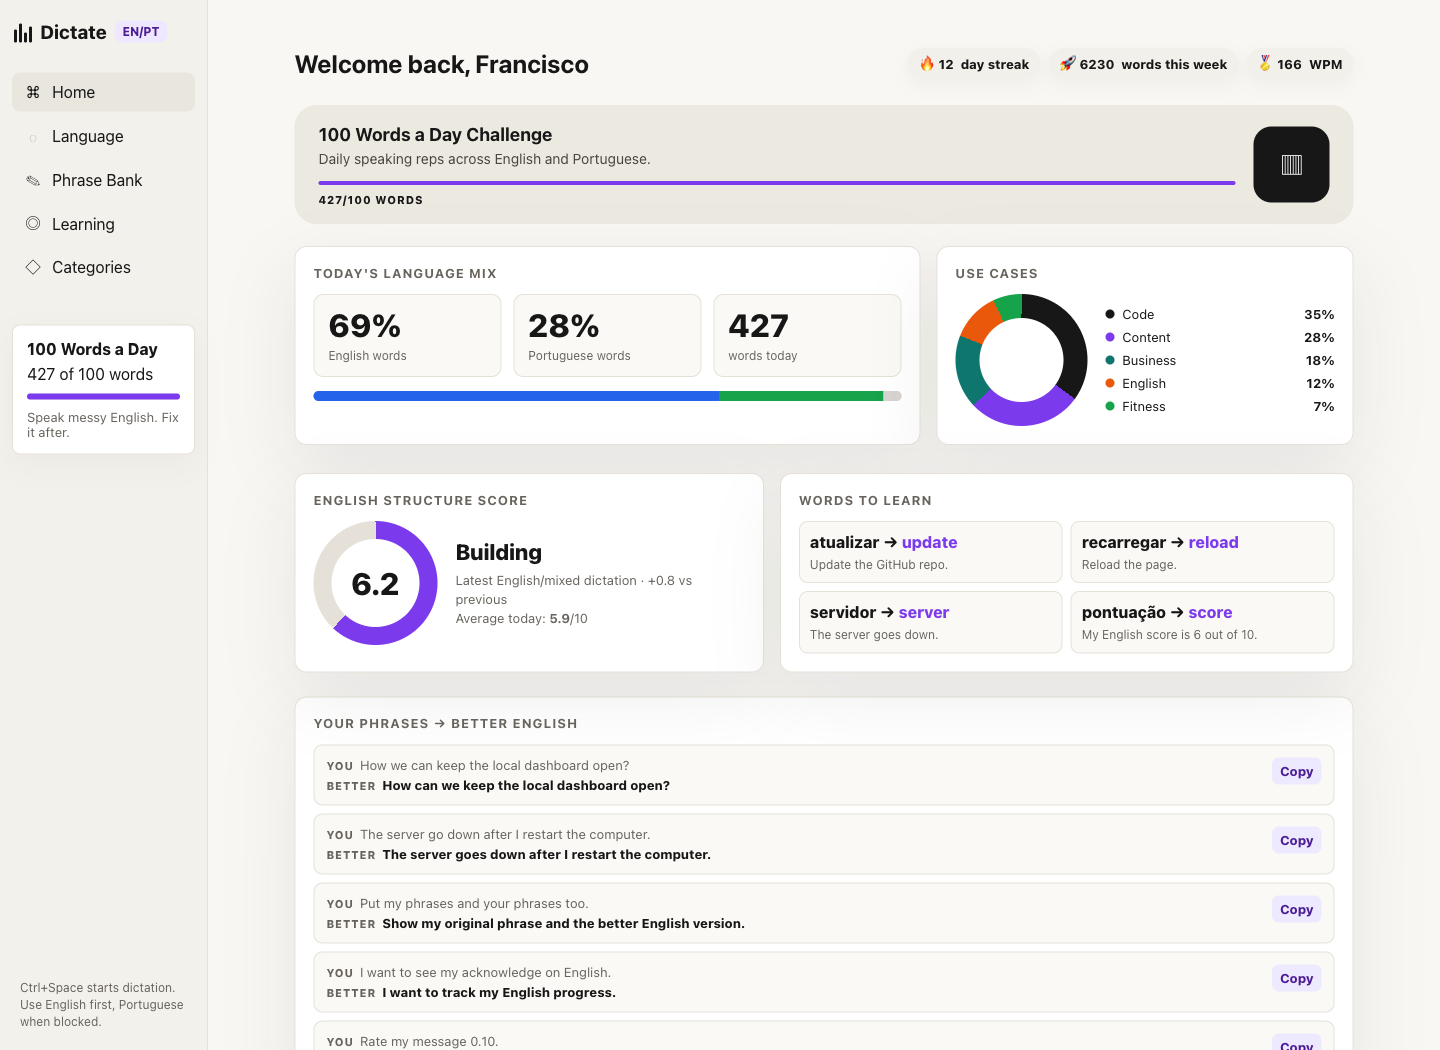
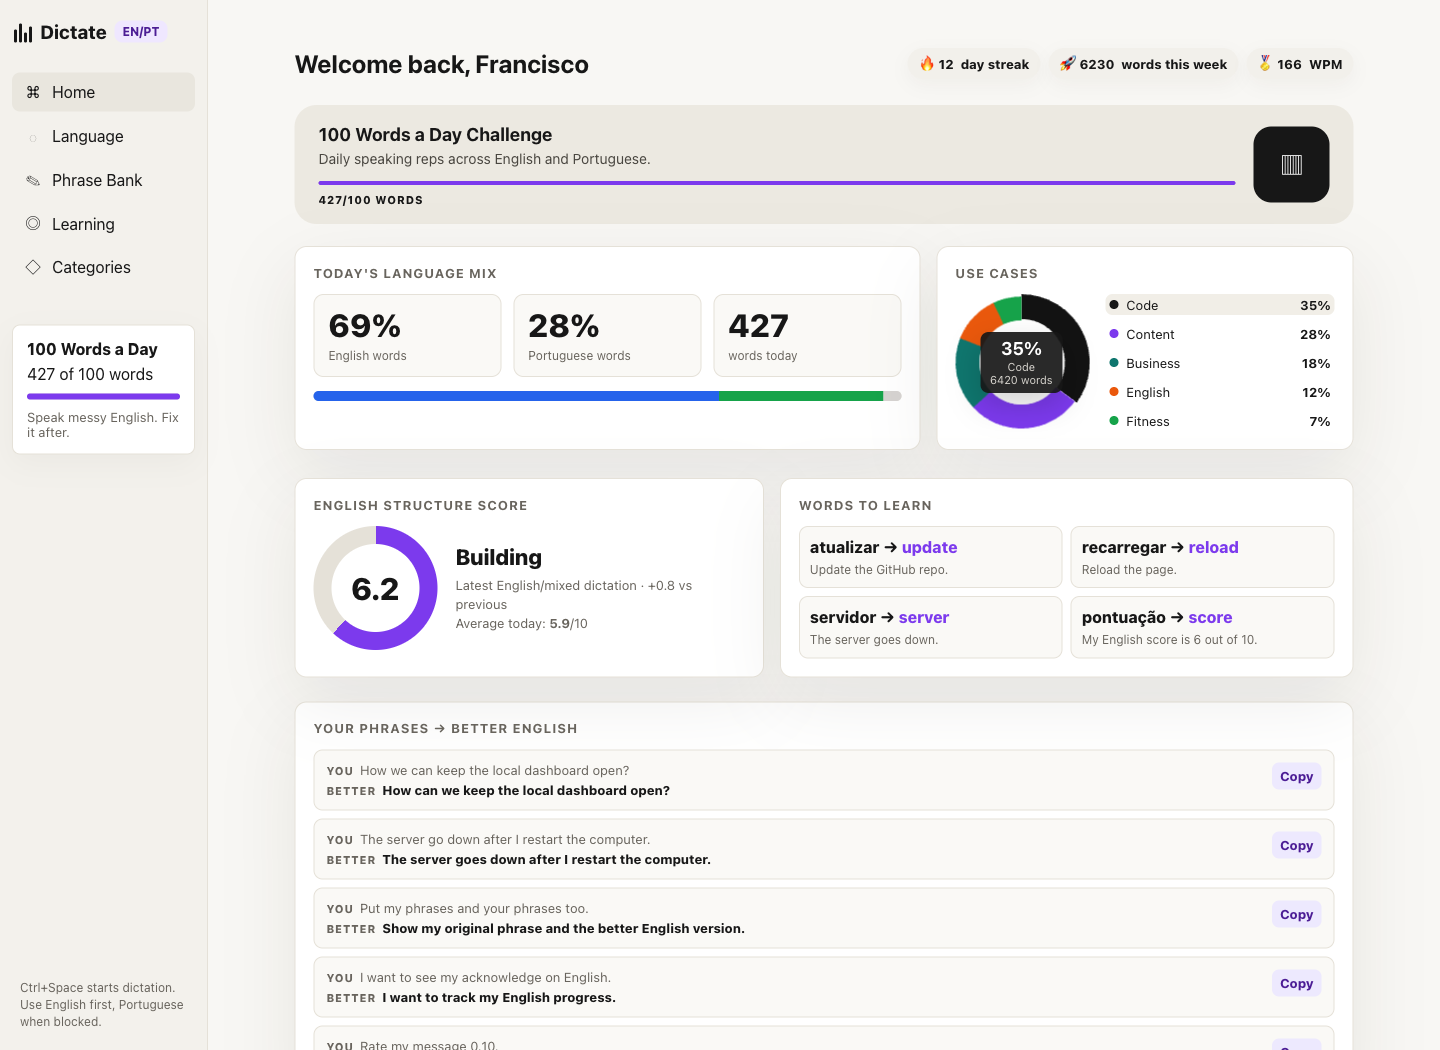
Add interactive use case donut hover

diff --git a/dashboard.py b/dashboard.py
@@ -985,19 +985,44 @@ h1 { margin: 0; font-size: 25px; line-height: 1.1; }
 .donut {
   width: 132px;
   height: 132px;
-  border-radius: 50%;
-  background: conic-gradient(#737373 0deg 360deg);
   position: relative;
 }
-.donut:after {
-  content: "";
-  position: absolute;
-  inset: 24px;
-  border-radius: 50%;
-  background: var(--surface);
+.donut-svg { width: 132px; height: 132px; overflow: visible; display: block; }
+.donut-segment {
+  cursor: pointer;
+  transition: filter .14s ease, transform .14s ease, opacity .14s ease;
+  transform-origin: 66px 66px;
 }
+.donut-segment:hover,
+.donut-segment:focus,
+.donut-segment.active {
+  filter: brightness(.78) saturate(1.12);
+  transform: scale(1.035);
+  outline: none;
+}
+.donut-hole { fill: var(--surface); pointer-events: none; }
+.donut-tip {
+  position: absolute;
+  left: 50%;
+  top: 50%;
+  transform: translate(-50%, -50%);
+  min-width: 82px;
+  padding: 7px 8px;
+  border-radius: 8px;
+  background: rgba(23,23,23,.92);
+  color: #fff;
+  text-align: center;
+  box-shadow: 0 12px 30px rgba(0,0,0,.18);
+  opacity: 0;
+  pointer-events: none;
+  transition: opacity .12s ease;
+}
+.donut-tip.show { opacity: 1; }
+.donut-tip b { display: block; font-size: 18px; line-height: 1; margin-bottom: 3px; }
+.donut-tip span { display: block; font-size: 11px; color: #d7d4ce; white-space: nowrap; }
 .legend { display: grid; gap: 8px; }
-.legend-row { display: flex; align-items: center; justify-content: space-between; gap: 10px; font-size: 13px; }
+.legend-row { display: flex; align-items: center; justify-content: space-between; gap: 10px; font-size: 13px; border-radius: 7px; padding: 3px 4px; transition: background .14s ease; }
+.legend-row.active { background: #f1eee7; }
 .legend-left { display: flex; align-items: center; gap: 8px; min-width: 0; }
 .dot { width: 9px; height: 9px; border-radius: 50%; flex: 0 0 auto; }
 .score-wrap { display: grid; grid-template-columns: 124px 1fr; gap: 18px; align-items: center; }
@@ -1457,29 +1482,114 @@ function languageLabel(meta) {
   if (meta.language === 'mixed') return 'Mixed EN/PT';
   return 'Unknown';
 }
+function polarToCartesian(cx, cy, r, angleDeg) {
+  const angleRad = (angleDeg - 90) * Math.PI / 180;
+  return {
+    x: cx + (r * Math.cos(angleRad)),
+    y: cy + (r * Math.sin(angleRad))
+  };
+}
+function donutPath(cx, cy, outerR, innerR, startAngle, endAngle) {
+  const outerStart = polarToCartesian(cx, cy, outerR, endAngle);
+  const outerEnd = polarToCartesian(cx, cy, outerR, startAngle);
+  const innerStart = polarToCartesian(cx, cy, innerR, startAngle);
+  const innerEnd = polarToCartesian(cx, cy, innerR, endAngle);
+  const largeArc = endAngle - startAngle <= 180 ? 0 : 1;
+  return [
+    'M', outerStart.x, outerStart.y,
+    'A', outerR, outerR, 0, largeArc, 0, outerEnd.x, outerEnd.y,
+    'L', innerStart.x, innerStart.y,
+    'A', innerR, innerR, 0, largeArc, 1, innerEnd.x, innerEnd.y,
+    'Z'
+  ].join(' ');
+}
+function setDonutHover(key, item) {
+  const tip = document.getElementById('donut-tip');
+  document.querySelectorAll('.legend-row').forEach(row => {
+    row.classList.toggle('active', row.dataset.key === key);
+  });
+  document.querySelectorAll('.donut-segment').forEach(seg => {
+    seg.classList.toggle('active', seg.dataset.key === key);
+  });
+  if (!item) {
+    tip.classList.remove('show');
+    return;
+  }
+  tip.innerHTML = `<b>${item.pct}%</b><span>${esc(item.label)}</span><span>${(item.words || 0).toLocaleString('pt-PT')} words</span>`;
+  tip.classList.add('show');
+}
+function configureDonutHover(segments) {
+  const donut = document.getElementById('donut');
+  donut.onmousemove = (event) => {
+    const rect = donut.getBoundingClientRect();
+    const x = event.clientX - rect.left - rect.width / 2;
+    const y = event.clientY - rect.top - rect.height / 2;
+    const radius = Math.sqrt(x * x + y * y);
+    if (radius < 42 || radius > 66) {
+      setDonutHover(null, null);
+      return;
+    }
+    let angle = Math.atan2(y, x) * 180 / Math.PI + 90;
+    if (angle < 0) angle += 360;
+    const hit = segments.find(seg => angle >= seg.start && angle <= seg.end);
+    setDonutHover(hit?.item?.key || null, hit?.item || null);
+  };
+  donut.onmouseleave = () => setDonutHover(null, null);
+  donut.querySelectorAll('.donut-segment').forEach(segment => {
+    segment.onfocus = () => {
+      const item = segments.find(seg => seg.item.key === segment.dataset.key)?.item;
+      setDonutHover(segment.dataset.key, item);
+    };
+    segment.onblur = () => setDonutHover(null, null);
+  });
+}
 function renderDonut(categories) {
   const active = categories.filter(c => c.words > 0).slice(0, 6);
   const donut = document.getElementById('donut');
   const legend = document.getElementById('legend');
   if (!active.length) {
-    donut.style.background = 'conic-gradient(#d6d3d1 0deg 360deg)';
+    donut.innerHTML = `
+      <svg class="donut-svg" viewBox="0 0 132 132" aria-label="No use case data yet">
+        <circle cx="66" cy="66" r="66" fill="#d6d3d1"></circle>
+        <circle class="donut-hole" cx="66" cy="66" r="42"></circle>
+      </svg>
+      <div class="donut-tip" id="donut-tip"></div>`;
     legend.innerHTML = '<div class="legend-row"><span class="legend-left"><span class="dot" style="background:#d6d3d1"></span>No data yet</span><b>0%</b></div>';
     return;
   }
   let start = 0;
-  const parts = [];
+  const paths = [];
+  const ranges = [];
   for (const c of active) {
-    const deg = Math.max(2, c.pct * 3.6);
-    parts.push(`${c.color} ${start}deg ${start + deg}deg`);
-    start += deg;
+    const deg = Math.max(3, c.pct * 3.6);
+    const end = Math.min(start + deg, 359.99);
+    const path = donutPath(66, 66, 66, 42, start, end);
+    ranges.push({start, end, item: c});
+    paths.push(`
+      <path
+        class="donut-segment"
+        data-key="${esc(c.key)}"
+        d="${path}"
+        fill="${c.color}"
+        tabindex="0"
+        role="img"
+        aria-label="${esc(c.label)} ${c.pct}%">
+        <title>${esc(c.label)} · ${c.pct}% · ${(c.words || 0).toLocaleString('pt-PT')} words</title>
+      </path>`);
+    start = end;
   }
-  if (start < 360) parts.push(`#e5e1d8 ${start}deg 360deg`);
-  donut.style.background = `conic-gradient(${parts.join(',')})`;
+  donut.innerHTML = `
+    <svg class="donut-svg" viewBox="0 0 132 132" aria-label="Use case distribution">
+      ${paths.join('')}
+      <circle class="donut-hole" cx="66" cy="66" r="42"></circle>
+    </svg>
+    <div class="donut-tip" id="donut-tip"></div>`;
   legend.innerHTML = active.map(c => `
-    <div class="legend-row">
+    <div class="legend-row" data-key="${esc(c.key)}">
       <span class="legend-left"><span class="dot" style="background:${c.color}"></span>${esc(c.label)}</span>
       <b>${c.pct}%</b>
     </div>`).join('');
+  configureDonutHover(ranges);
 }
 function renderPhrases(phrases) {
   document.getElementById('phrase-bank').innerHTML = phrases.map(item => {